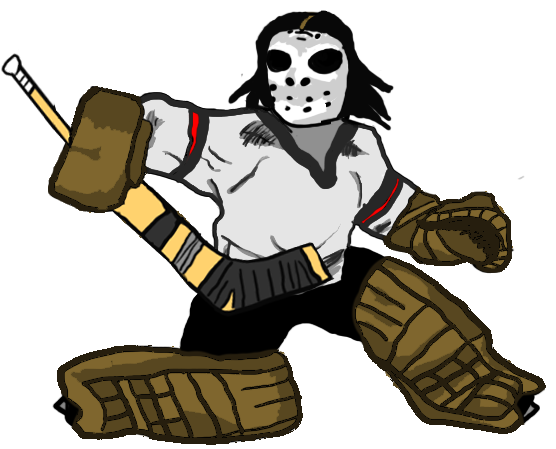
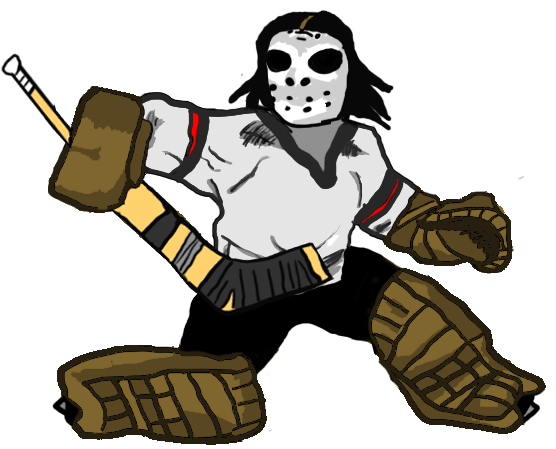
Fixed end game glitch, updated artwork.

diff --git a/ShutOutHockey/ShutOutHockey/Assets/scripts/Controllers/Gameplay/OffenceController.cs b/ShutOutHockey/ShutOutHockey/Assets/scripts/Controllers/Gameplay/OffenceController.cs
@@ -15,7 +15,7 @@ public class OffenceController : MonoBehaviour {
     public ScoreController scoreController;
     private float timer = 0.0f;
     public float puckAcceleration = 1.25f;
-    public float magicSpeed = 25f;
+    public float magicSpeed;
     public float gameDifficulty = 1f;
     public int saveStreak = 0;
     public AudioSource slapShot;
@@ -36,7 +36,7 @@ public class OffenceController : MonoBehaviour {
     // Update is called once per frame
     void Update () {
         timer += Time.deltaTime;
-        if (timer >= shotFrequency/gameDifficulty && !gameStart)
+        if (timer >= shotFrequency/gameDifficulty*1.2f && !gameStart)
         {
             timer = 0.0f;
             ShootPuck();
@@ -58,9 +58,8 @@ public class OffenceController : MonoBehaviour {
     {
         int shotLocation = SelectTarget(targets); 
         GameObject target = targets[shotLocation];
-        float speed = CalculateShotSpeed(target.transform, shotStart);
-
         PlaySlapShotSound(target.GetComponent<TargetController>().targetNumber);
+        float speed = CalculateShotSpeed(target.transform, shotStart.transform);
         target.GetComponent<TargetController>().PrepShot();
         crowd.GetComponent<CrowdController>().scale = crowd.GetComponent<CrowdController>().GetExcitement();
 

diff --git a/ShutOutHockey/ShutOutHockey/Assets/scripts/Controllers/Gameplay/TargetController.cs b/ShutOutHockey/ShutOutHockey/Assets/scripts/Controllers/Gameplay/TargetController.cs
@@ -8,9 +8,6 @@ public class TargetController : MonoBehaviour
     private SpriteRenderer rend;
     public float shotFrequency;
     private float timer = 0.0f;
-    private float fadeDuration = 0.0f;
-    private float frequencyOffset = 0.005f;
-    private float magicNumber = 25f;
     public GameObject gameController;
     public ScoreController scoreController;
     private GameObject goalie;
@@ -41,7 +38,7 @@ public class TargetController : MonoBehaviour
         if (this.GetComponent<TargetTouch>().state == TargetState.Active)
         {
             timer += Time.deltaTime;
-            if (timer >= offenceController.shotFrequency*difficulty)
+            if (timer >= offenceController.shotFrequency/difficulty)
             {
                 timer = 0.0f;
                 Goal();

diff --git a/ShutOutHockey/ShutOutHockey/Assets/scripts/Controllers/Logic/PauseController.cs b/ShutOutHockey/ShutOutHockey/Assets/scripts/Controllers/Logic/PauseController.cs
@@ -1,6 +1,4 @@
-using System.Collections;
-using System.Collections.Generic;
-using UnityEngine;
+using UnityEngine;
 
 public class PauseController : MonoBehaviour {
     public bool isPaused=false;
@@ -32,9 +30,9 @@ public class PauseController : MonoBehaviour {
 
     public void OnClick()
     {
-        whistle.GetComponent<AudioSource>().Play();
         if (timeRemaining)
         {
+            whistle.GetComponent<AudioSource>().Play();
             if (isPaused)
             {
                 UnPause();

diff --git a/ShutOutHockey/ShutOutHockey/Assets/scripts/Controllers/Logic/ScoreController.cs b/ShutOutHockey/ShutOutHockey/Assets/scripts/Controllers/Logic/ScoreController.cs
@@ -35,7 +35,7 @@ public class ScoreController : MonoBehaviour
 
     private void Update()
     {
-        if (TimeSpan.FromSeconds(Time.timeSinceLevelLoad) > gameStart+TimeSpan.FromSeconds(gameLength+1))
+        if (TimeSpan.FromSeconds(Time.timeSinceLevelLoad) > gameStart+TimeSpan.FromSeconds(gameLength+1) && !pauseController.isPaused)
         {
             pauseController.LockGame();
         }

diff --git a/ShutOutHockey/ShutOutHockey/Assets/scripts/Controllers/Logic/GameController.cs b/ShutOutHockey/ShutOutHockey/Assets/scripts/Controllers/Logic/GameController.cs
@@ -1,5 +1,4 @@
-using System;
-using UnityEngine;
+using UnityEngine;
 using UnityEngine.SceneManagement;
 using UnityEngine.UI;
 
